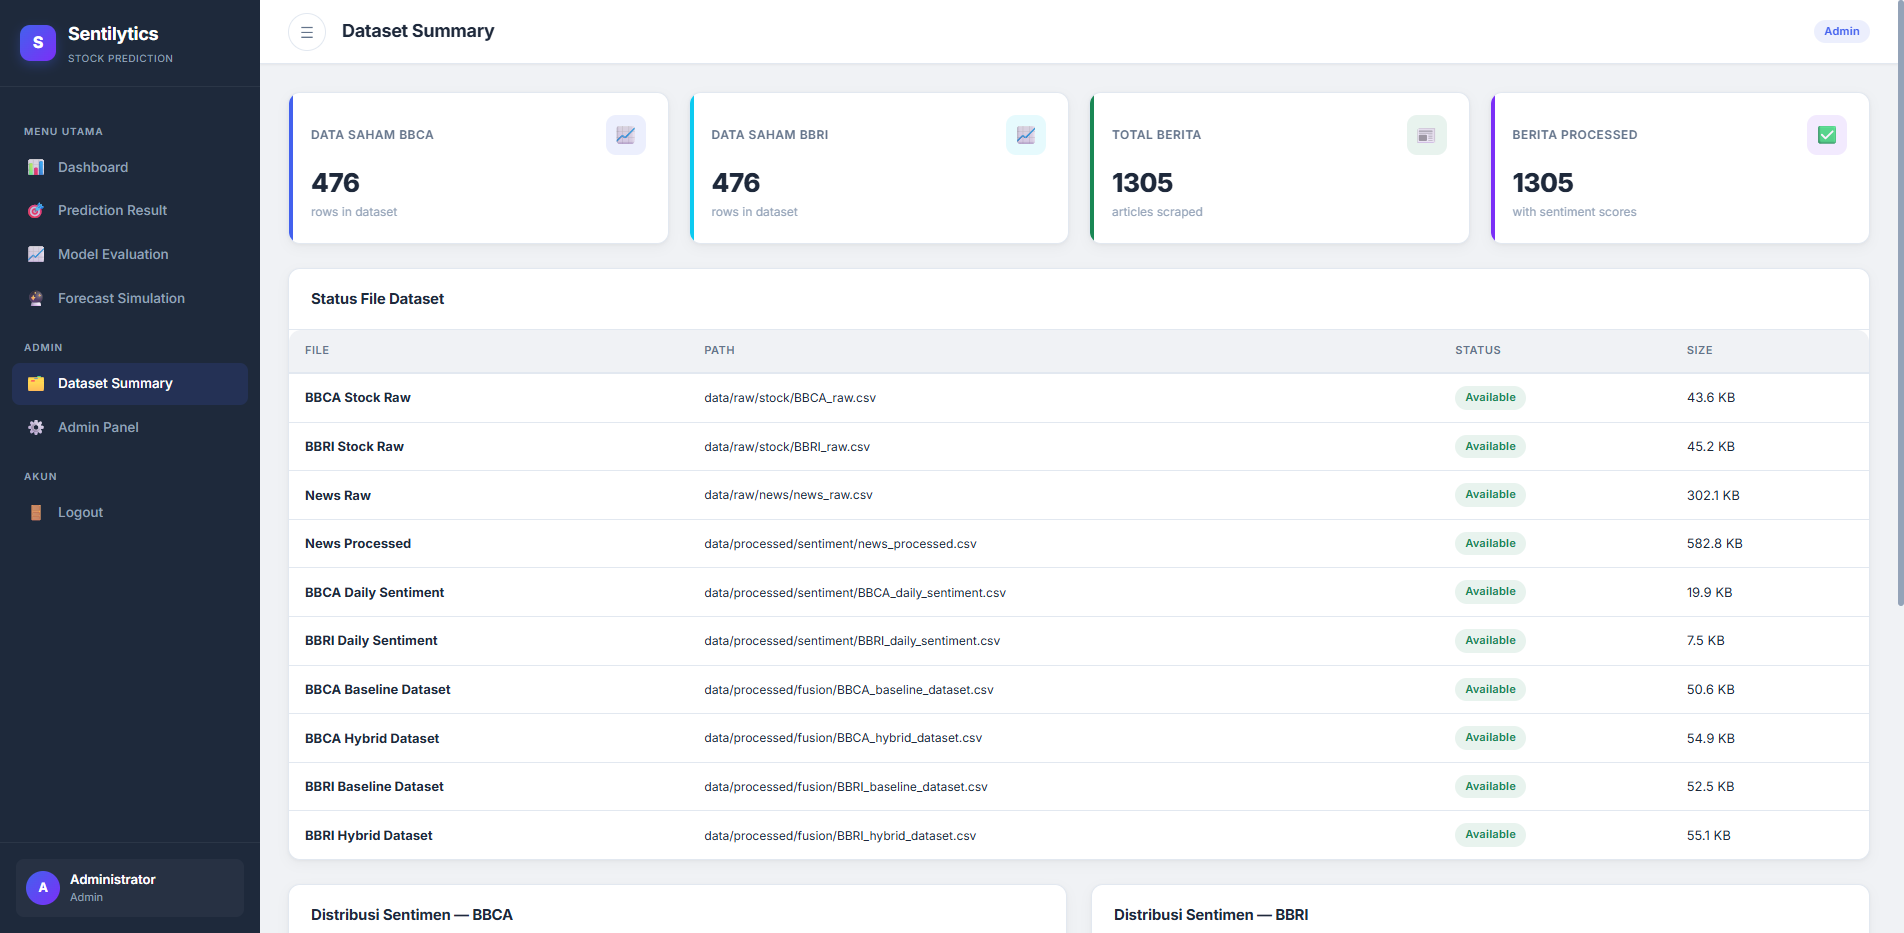
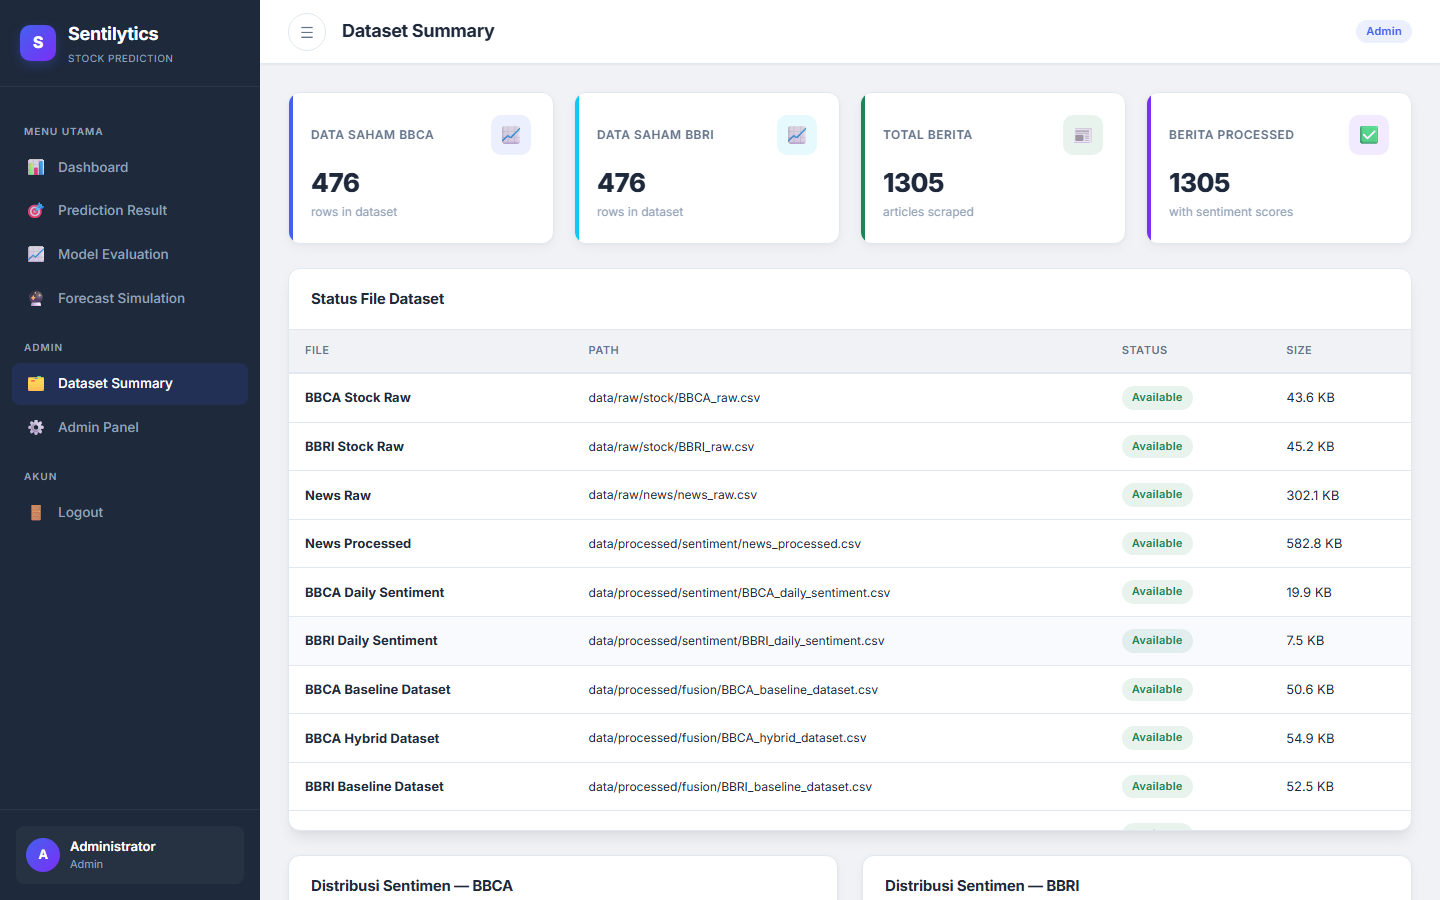
feat: add automated screenshot utility and include UI documentation in README

diff --git a/take_screenshots.py b/take_screenshots.py
@@ -1,0 +1,114 @@
+# -*- coding: utf-8 -*-
+"""
+Script otomatis untuk mengambil screenshot tampilan terbaru Sentilytics.
+Jalankan Flask terlebih dahulu (python run.py), lalu jalankan script ini.
+"""
+import sys
+from pathlib import Path
+import urllib.request
+
+SCREENSHOT_DIR = Path("docs/screenshots")
+BASE_URL = "http://127.0.0.1:5000"
+
+ADMIN_EMAIL = "admin@sentilytics.local"
+ADMIN_PASSWORD = "Admin123!Secure"
+
+
+def take_screenshots():
+    from playwright.sync_api import sync_playwright
+
+    SCREENSHOT_DIR.mkdir(parents=True, exist_ok=True)
+
+    with sync_playwright() as p:
+        browser = p.chromium.launch(headless=True)
+        context = browser.new_context(viewport={"width": 1440, "height": 900})
+        page = context.new_page()
+
+        # 01: Login Page
+        print("[1/8] Login Page...")
+        page.goto(f"{BASE_URL}/login", wait_until="networkidle")
+        page.wait_for_timeout(1500)
+        page.screenshot(path=str(SCREENSHOT_DIR / "01_login_page.png"), full_page=False)
+        print("      -> Saved 01_login_page.png")
+
+        # 02: Register Page
+        print("[2/8] Register Page...")
+        page.goto(f"{BASE_URL}/register", wait_until="networkidle")
+        page.wait_for_timeout(1500)
+        page.screenshot(path=str(SCREENSHOT_DIR / "02_register_page.png"), full_page=False)
+        print("      -> Saved 02_register_page.png")
+
+        # Login as Admin
+        print("      Logging in as Admin...")
+        page.goto(f"{BASE_URL}/login", wait_until="networkidle")
+        page.fill("#email", ADMIN_EMAIL)
+        page.fill("#password", ADMIN_PASSWORD)
+        page.click("#loginBtn")
+        page.wait_for_url(f"{BASE_URL}/dashboard*", timeout=10000)
+        page.wait_for_timeout(3000)
+
+        # 03: Dashboard Utama
+        print("[3/8] Dashboard Utama (BBCA Baseline)...")
+        page.goto(f"{BASE_URL}/dashboard?stock=BBCA&model=baseline", wait_until="networkidle")
+        page.wait_for_timeout(4000)
+        page.screenshot(path=str(SCREENSHOT_DIR / "03_dashboard_utama.png"), full_page=False)
+        print("      -> Saved 03_dashboard_utama.png")
+
+        # 04: Evaluation Page
+        print("[4/8] Evaluation Page...")
+        page.goto(f"{BASE_URL}/evaluation?stock=BBCA&model=baseline", wait_until="networkidle")
+        page.wait_for_timeout(4000)
+        page.screenshot(path=str(SCREENSHOT_DIR / "04_evaluation_page.png"), full_page=False)
+        print("      -> Saved 04_evaluation_page.png")
+
+        # 05: Forecast H+7
+        print("[5/8] Forecast H+7...")
+        page.goto(f"{BASE_URL}/forecast?stock=BBCA&model=hybrid", wait_until="networkidle")
+        page.wait_for_timeout(4000)
+        page.screenshot(path=str(SCREENSHOT_DIR / "05_forecast_h7.png"), full_page=False)
+        print("      -> Saved 05_forecast_h7.png")
+
+        # 06: Dataset Summary
+        print("[6/8] Dataset Summary...")
+        page.goto(f"{BASE_URL}/dataset-summary", wait_until="networkidle")
+        page.wait_for_timeout(2000)
+        page.screenshot(path=str(SCREENSHOT_DIR / "06_dataset_summary.png"), full_page=False)
+        print("      -> Saved 06_dataset_summary.png")
+
+        # 07: Admin Panel
+        print("[7/8] Admin Panel...")
+        page.goto(f"{BASE_URL}/admin", wait_until="networkidle")
+        page.wait_for_timeout(2000)
+        page.screenshot(path=str(SCREENSHOT_DIR / "07_admin_panel.png"), full_page=False)
+        print("      -> Saved 07_admin_panel.png")
+
+        # 08: Access Denied - logout then try /admin
+        print("[8/8] Access Denied (403)...")
+        page.goto(f"{BASE_URL}/logout", wait_until="networkidle")
+        page.wait_for_timeout(1000)
+        page.goto(f"{BASE_URL}/admin", wait_until="networkidle")
+        page.wait_for_timeout(1500)
+        page.screenshot(path=str(SCREENSHOT_DIR / "08_access_denied.png"), full_page=False)
+        print("      -> Saved 08_access_denied.png")
+
+        browser.close()
+
+    print("")
+    print("DONE! All screenshots saved to: " + str(SCREENSHOT_DIR.resolve()))
+
+
+if __name__ == "__main__":
+    print("=" * 60)
+    print("  Sentilytics - Auto Screenshot Tool")
+    print("=" * 60)
+    print("")
+
+    try:
+        urllib.request.urlopen(f"{BASE_URL}/login", timeout=5)
+        print("Flask detected at http://127.0.0.1:5000")
+        print("")
+    except Exception:
+        print("ERROR: Flask not running. Run: python run.py first.")
+        sys.exit(1)
+
+    take_screenshots()

diff --git a/README.md b/README.md
@@ -21,6 +21,29 @@
 
 ---
 
+## 📸 Screenshots
+
+### Login & Register
+| Login | Register |
+|-------|----------|
+| ![Login](docs/screenshots/01_login_page.png) | ![Register](docs/screenshots/02_register_page.png) |
+
+### Dashboard Utama
+![Dashboard](docs/screenshots/03_dashboard_utama.png)
+
+### Model Evaluation
+![Evaluation](docs/screenshots/04_evaluation_page.png)
+
+### Forecast Simulation H+7
+![Forecast](docs/screenshots/05_forecast_h7.png)
+
+### Dataset Summary & Admin Panel
+| Dataset Summary | Admin Panel |
+|-----------------|-------------|
+| ![Dataset](docs/screenshots/06_dataset_summary.png) | ![Admin](docs/screenshots/07_admin_panel.png) |
+
+---
+
 ## 🛠 Tech Stack
 
 | Komponen | Teknologi |
